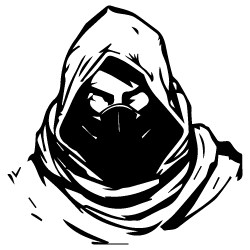
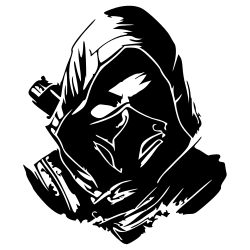
adicionando novos papeis

diff --git a/src/Classes/Roles/ToughGuy.js b/src/Classes/Roles/ToughGuy.js
@@ -1,7 +1,7 @@
 import Role from "./Role";
 import toughGuyImg from "../../../assets/images/toughGuy.png";
 import firstSkillIcon from "../../../assets/images/target.png";
-import secondSkillIcon from "../../../assets/images/trap.png";
+import secondSkillIcon from "../../../assets/images/muscle.png";
 
 export default class ToughGuy extends Role {
   constructor() {
@@ -16,7 +16,7 @@ export default class ToughGuy extends Role {
         1: {
           name: "Último Ato",
           description:
-            "Uma vez por jogo você intimida os lobisomens forçando-os a te matarem. Há 20% de chance de um deles morrer com você.",
+            "Uma vez por jogo você provoca os lobisomens forçando-os a te matarem. Há 20% de chance de um deles morrer com você.",
           isTargetType: false,
           enableTurn: -1,
           turnItWasDisabled: -1,
@@ -25,7 +25,7 @@ export default class ToughGuy extends Role {
         2: {
           name: "Parrudo",
           description:
-            "Quando você for atacado por lobisomens, você sobreviverá até o próximo dia.",
+            "Passivo: Quando você for atacado por lobisomens, você sobreviverá até o próximo dia.",
           isTargetType: false,
           enableTurn: 1000,
           turnItWasDisabled: -1,
